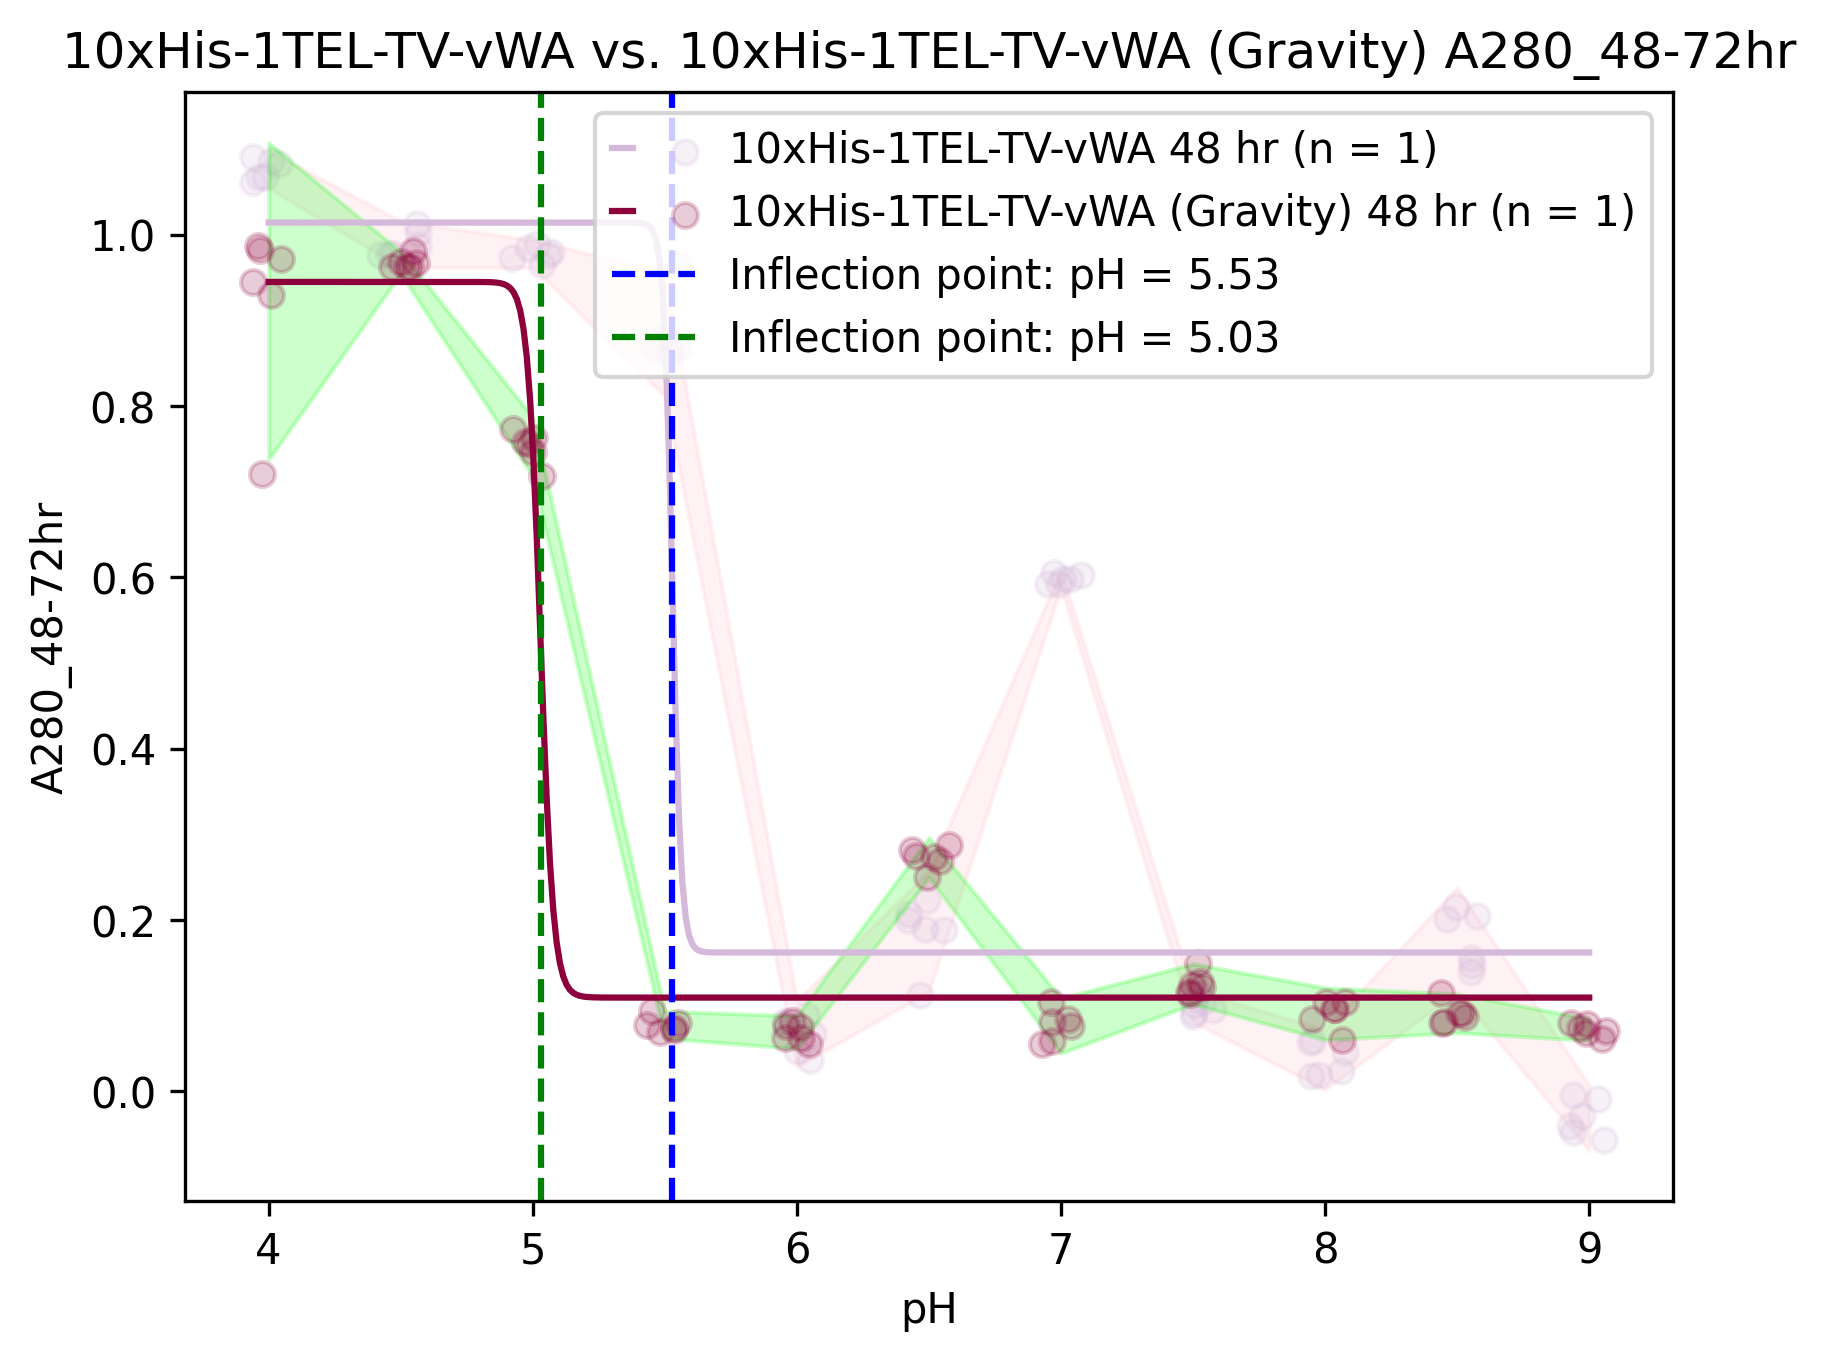
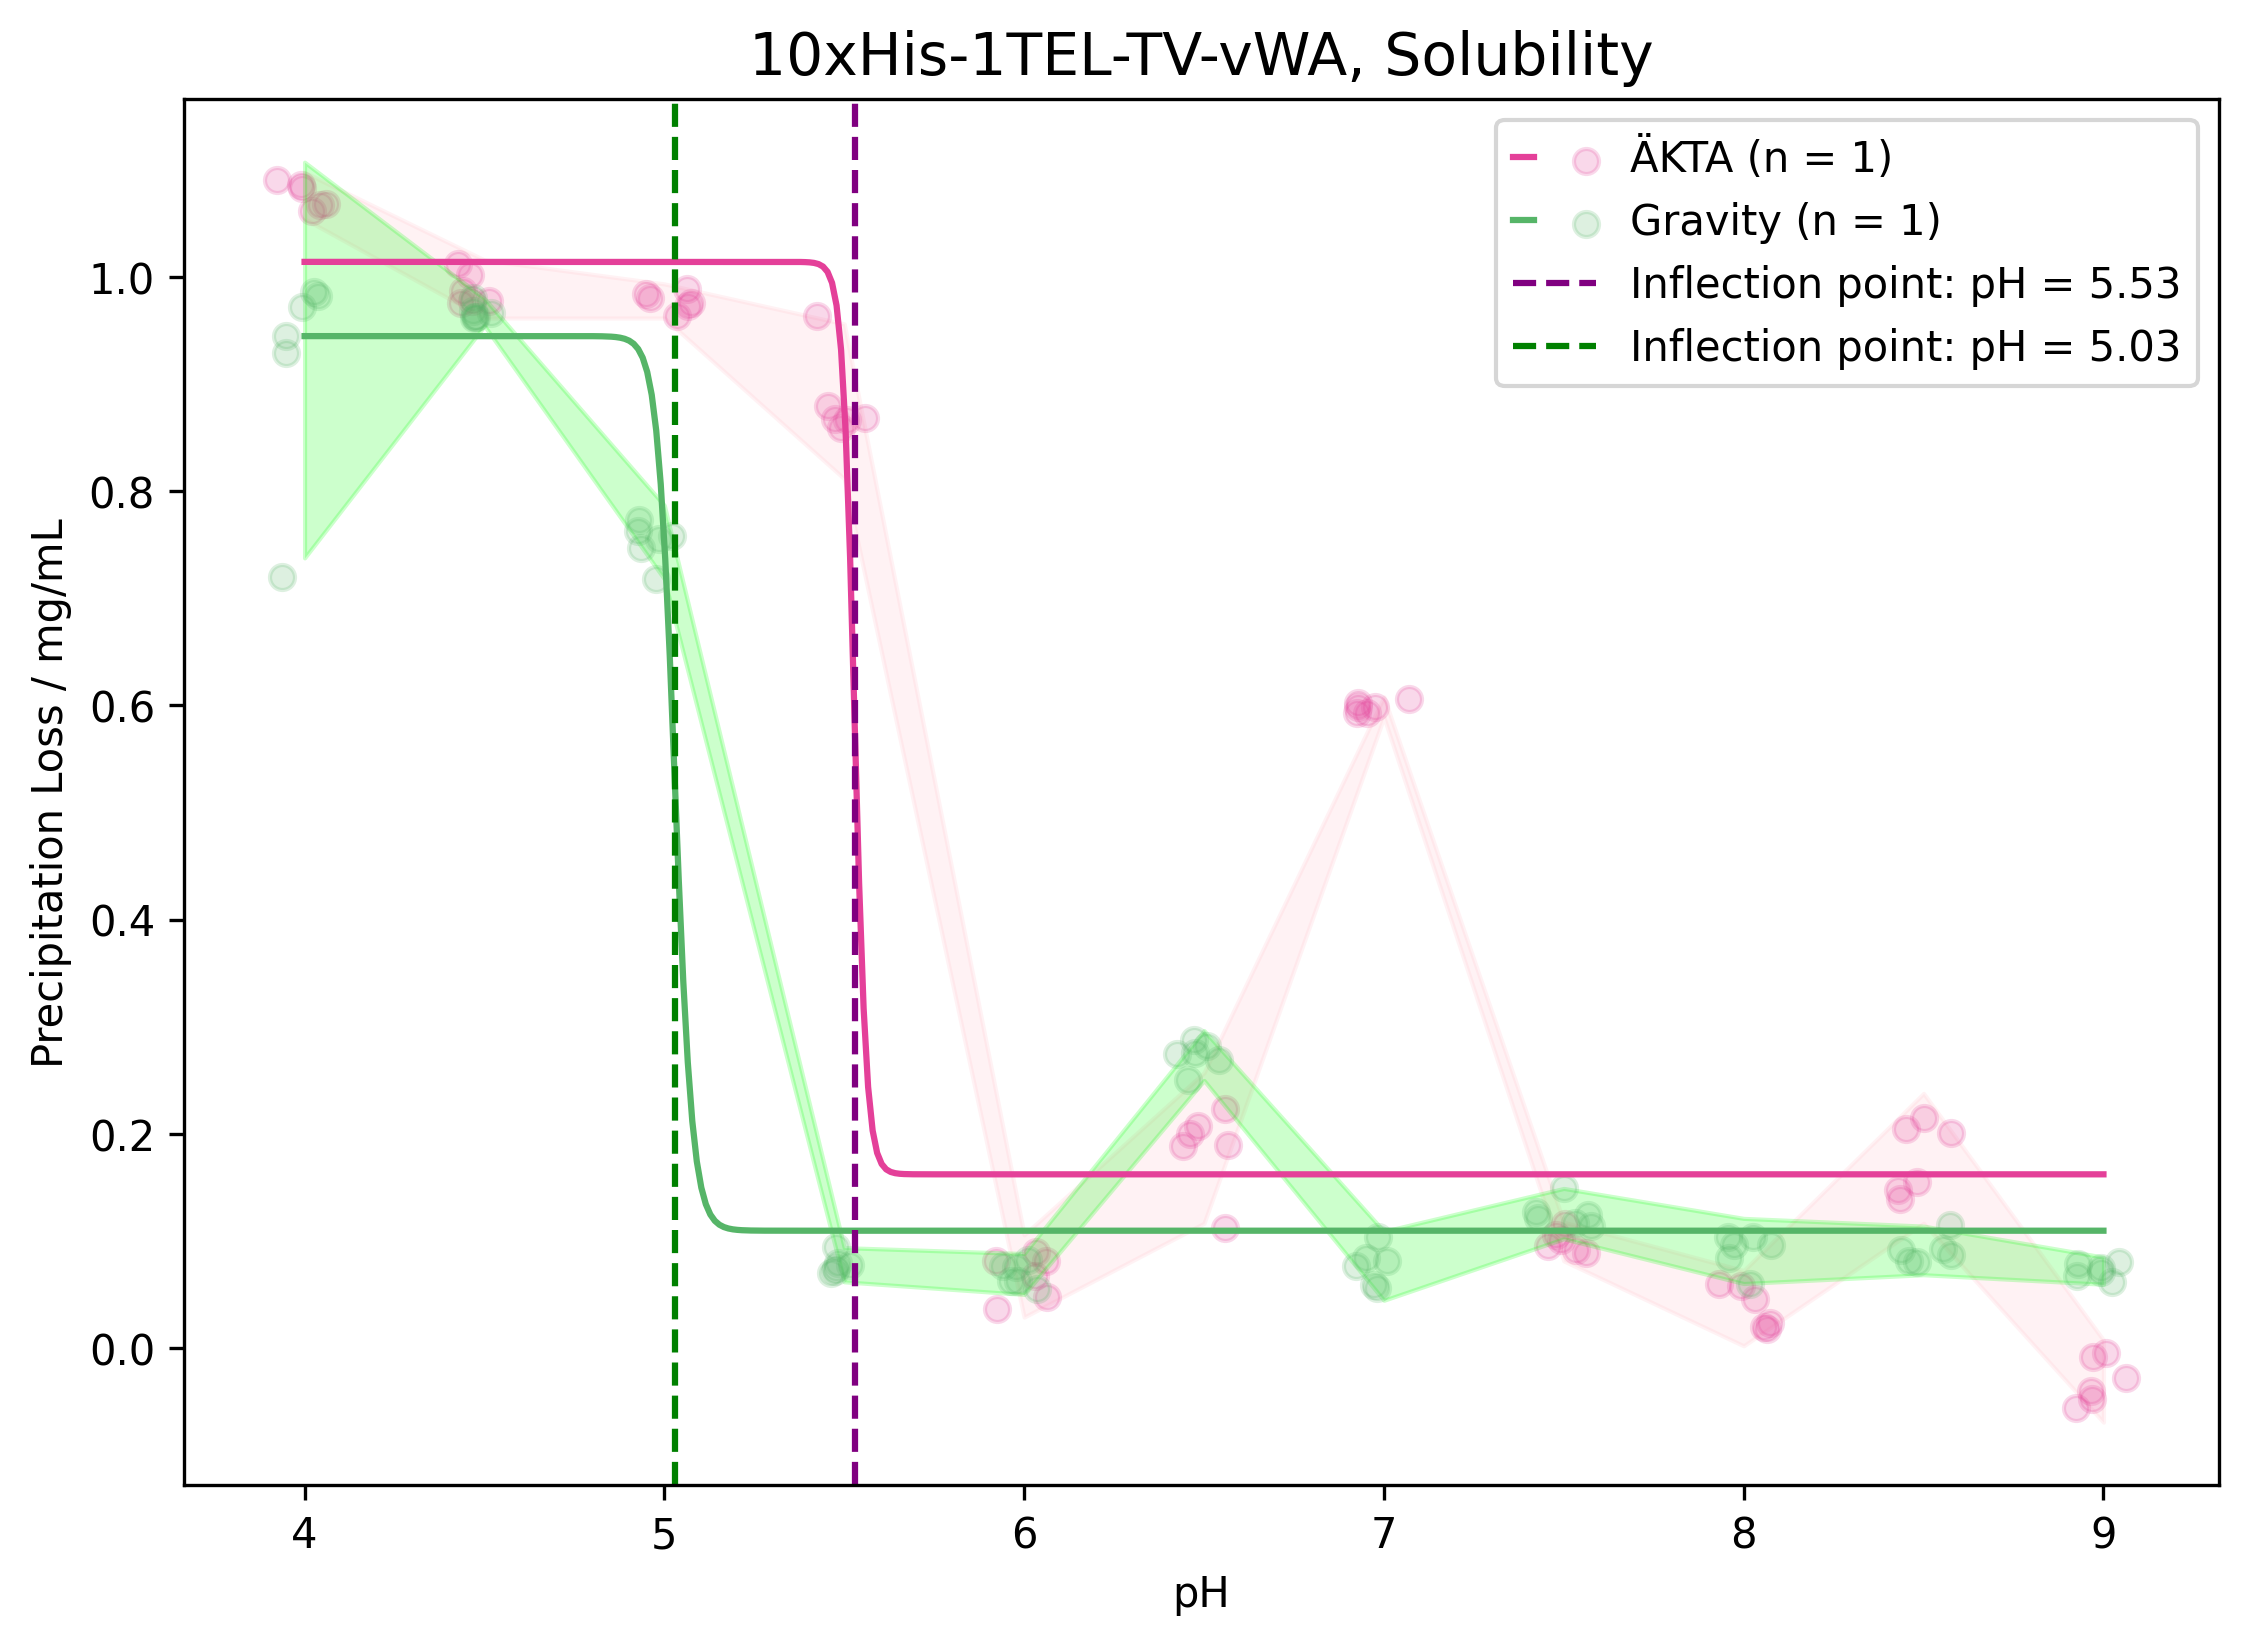
Made major adjustments to how the legends, axis labels, and titles are formatted. Also adjusted the color for the 2Trig 48-72 HR data.

diff --git a/process.py b/process.py
@@ -42,6 +42,73 @@ with open('data.csv',newline="") as csvfile:
             else:
                 protein_dict[protein_construct][row['Date']+"_"+row['Stock Concentration mg/mL']+'_mg/mL_pH_'+row['pH']]['A280_48-72hr'].append(float(row['A280_48-72hr']))
 
+def format_protein_title(construct_name: str) -> str:
+    name = construct_name.strip()
+
+    # Remove prefixes that should not appear in the title
+    name = name.replace("2Trig-", "")
+    name = name.replace(" (Gravity)", "")
+
+    parts = name.split("-")
+
+    # 1) tag
+    tag = "10xHis-" if parts[0] == "10xHis" else ""
+
+    # 2) scaffold
+    # You said this will always be 1TEL
+    scaffold = "1TEL"
+
+    # 3) linker
+    # Expected examples: GG, PA, SR, TV
+    linker = ""
+    if "GG" in parts:
+        linker = "GG"
+    elif "PA" in parts:
+        linker = "PA"
+    elif "SR" in parts:
+        linker = "[sr]"
+    elif "TV" in parts:
+        linker = "TV"
+
+    # 4) target protein
+    if "TNK1.UBA" in name:
+        target_protein = "TNK1.UBA"
+    elif "DARPin" in name:
+        target_protein = "DARPin"
+    elif "vWA" in name:
+        target_protein = "vWA"
+    else:
+        target_protein = "Unknown"
+
+    return f"{tag}{scaffold}-{linker}-{target_protein}"
+
+def format_legend_label(construct, test_name, protein_constructs, tests, n):
+
+    is_2trig = "2Trig" in construct
+    is_gravity = "Gravity" in construct
+    is_vwa = any(("vWA" in c) and ("2Trig" not in c) for c in protein_constructs)
+
+    has_1hr = "A280_1hr" in tests
+    has_48hr = "A280_48-72hr" in tests
+
+    # Case 1: 1Trig vs 2Trig
+    if len(protein_constructs) == 2 and len(tests) == 1:
+        if is_vwa and any("Gravity" in c for c in protein_constructs):
+            label = "Gravity" if is_gravity else "ÄKTA"
+        else:
+            label = "2Trig" if is_2trig else "1Trig"
+
+    # Case 2: 1 hr vs 48 hr
+    elif len(protein_constructs) == 1 and has_1hr and has_48hr:
+        trig_label = "2Trig" if is_2trig else "1Trig"
+        time_label = "1 Hour" if test_name == "A280_1hr" else "48 Hour"
+        label = f"{trig_label} {time_label}"
+
+    else:
+        label = construct
+
+    return f"{label} (n = {n})"
+
 def statisticize(proteins_and_tests:list,plot_singly=False,plot=False,tailored=False,pool=False):
     """
     Normally, you should pass only one test and one protein construct into 'proteins_and_tests', in the form of a list of tuples, where the
@@ -187,19 +254,31 @@ def statisticize(proteins_and_tests:list,plot_singly=False,plot=False,tailored=F
         return lower_asymptote + (upper_asymptote - lower_asymptote) / (1 + (pH / inflection_point)**Hill_slope)
 
     if plot==True:
+        # Make legend smaller:
+            # GG A400 1 vs 2
+            # SR 1 HR 1 vs 2
+            # GG 1 HR 1 vs 2
+            # vWA 1 HR non-gravity vs gravity
+        # Legend in bottom:
+            # Why 2Trig-PA in bottom by not 1Trig 1HR vs 48 HR?
+
+        plt.figure(figsize=(8.75,6))
         handles_and_labels = {}
 
         def change_colors():
             keys_1trig = []
             keys_2trig = []
             keys_48_hour = []
+            keys_2Trig_48_hour = []
             keys_Gravity = []
             for construct_key in constructs_by_pH_by_date:
                 construct, test_name = construct_key
                 if "Gravity" in construct:
                     keys_Gravity.append(construct_key)
-                elif test_name == "A280_48-72hr":
+                elif test_name == "A280_48-72hr" and not '2Trig' in construct:
                     keys_48_hour.append(construct_key)
+                elif test_name == 'A280_48-72hr' and '2Trig' in construct:
+                    keys_2Trig_48_hour.append(construct_key)
                 elif "2Trig" in construct:
                     keys_2trig.append(construct_key)
                 else:
@@ -211,6 +290,7 @@ def statisticize(proteins_and_tests:list,plot_singly=False,plot=False,tailored=F
             blue_shades = shade_list(plt.cm.Blues, len(keys_1trig))
             orange_shades = shade_list(plt.cm.Oranges, len(keys_2trig))
             crimson_shades = shade_list(plt.cm.PuRd, len(keys_48_hour))
+            purple_shades = shade_list(plt.cm.Purples, len(keys_2Trig_48_hour))
             lime_shades = shade_list(plt.cm.YlGn, len(keys_Gravity))
             color_map = {}
             for construct, color in zip(sorted(keys_1trig), blue_shades):
@@ -218,6 +298,8 @@ def statisticize(proteins_and_tests:list,plot_singly=False,plot=False,tailored=F
             for construct, color in zip(sorted(keys_2trig), orange_shades):
                 color_map[construct] = color
             for construct, color in zip(sorted(keys_48_hour), crimson_shades):
+                color_map[construct] = color
+            for construct, color in zip(sorted(keys_2Trig_48_hour), purple_shades):
                 color_map[construct] = color
             for construct, color in zip(sorted(keys_Gravity), lime_shades):
                 color_map[construct] = color
@@ -282,8 +364,10 @@ def statisticize(proteins_and_tests:list,plot_singly=False,plot=False,tailored=F
                 ###------plot CI band around the mean values at each pH---------------------###
                 if "Gravity" in construct:
                     plt.fill_between(pH_values, ci_lower_bounds, ci_upper_bounds, color='lime', alpha=0.20)
-                elif test_name == "A280_48-72hr":
+                elif test_name == "A280_48-72hr" and "2Trig" not in construct:
                     plt.fill_between(pH_values, ci_lower_bounds, ci_upper_bounds, color='pink', alpha=0.20)
+                elif test_name == "A280_48-72hr" and "2Trig" in construct:
+                    plt.fill_between(pH_values, ci_lower_bounds, ci_upper_bounds, color='mediumpurple', alpha=0.20)
                 elif "2Trig" in construct:
                     plt.fill_between(pH_values, ci_lower_bounds, ci_upper_bounds, color='tomato', alpha=0.20)
                 else:
@@ -292,7 +376,9 @@ def statisticize(proteins_and_tests:list,plot_singly=False,plot=False,tailored=F
                 # plot raw scatter points
                 jitter_strength = 0.08
                 jittered_pHs = np.array(construct_pHs) + np.random.uniform(-jitter_strength, jitter_strength, len(construct_pHs))
-                if "2Trig" in construct:
+                if "2Trig" in construct and test_name == 'A280_48-72hr':
+                    scatter_handle = plt.scatter(jittered_pHs,construct_data,marker="^", color=color_map[construct_key], alpha=0.3)
+                elif "2Trig" in construct:
                     scatter_handle = plt.scatter(jittered_pHs,construct_data,marker="^", color=color_map[construct_key], alpha=0.2)
                 else:
                     scatter_handle = plt.scatter(jittered_pHs,construct_data, color=color_map[construct_key], alpha=0.2)
@@ -309,13 +395,8 @@ def statisticize(proteins_and_tests:list,plot_singly=False,plot=False,tailored=F
                         inflection_2 = plt.axvline(inflection_points_2trig[-1],color="red",linestyle="--")
                         handles_and_labels[inflection_2] = f"Inflection point: pH = {inflection_points_2trig[-1].round(2)}"
                 
-                if test_name == "A280_1hr":
-                    time_label = "1 hr"
-                elif test_name == "A280_48-72hr":
-                    time_label = "48 hr"
-                else:
-                    time_label = ""
-                handles_and_labels[(line_handle, scatter_handle)] = f"{construct} {time_label} (n = {biological_n_by_construct[construct_key]})"
+                legend_label = format_legend_label(construct,test_name,protein_constructs,tests,biological_n_by_construct[construct_key])
+                handles_and_labels[(line_handle, scatter_handle)] = legend_label
 
             except Exception as e:
                 print(f'The curve fit for {construct} failed due to: {e}. Plotting points instead of fitted curve...')
@@ -329,25 +410,24 @@ def statisticize(proteins_and_tests:list,plot_singly=False,plot=False,tailored=F
                             construct_data.append(measurement)
                 if "Gravity" in construct:
                     plt.fill_between(pH_values, ci_lower_bounds, ci_upper_bounds, color='lime', alpha=0.20)
-                elif test_name == "A280_48-72hr":
+                elif test_name == "A280_48-72hr" and "2Trig" not in construct:
                     plt.fill_between(pH_values, ci_lower_bounds, ci_upper_bounds, color='pink', alpha=0.20)
+                elif test_name == "A280_48-72hr" and "2Trig" in construct:
+                    plt.fill_between(pH_values, ci_lower_bounds, ci_upper_bounds, color='mediumpurple', alpha=0.20)
                 elif "2Trig" in construct:
                     plt.fill_between(pH_values, ci_lower_bounds, ci_upper_bounds, color='tomato', alpha=0.20)
                 else:
                     plt.fill_between(pH_values, ci_lower_bounds, ci_upper_bounds, color='cyan', alpha=0.20)
                 jitter_strength = 0.08
                 jittered_pHs = np.array(construct_pHs) + np.random.uniform(-jitter_strength, jitter_strength, len(construct_pHs))
-                if "2Trig" in construct:
+                if "2Trig" in construct and test_name == 'A280_48-72hr':
+                    scatter_handle = plt.scatter(jittered_pHs,construct_data,marker="^", color=color_map[construct_key], alpha=0.3)
+                elif "2Trig" in construct:
                     scatter_handle = plt.scatter(jittered_pHs,construct_data,marker="^", color=color_map[construct_key], alpha=0.2)
                 else:
                     scatter_handle = plt.scatter(jittered_pHs,construct_data, color=color_map[construct_key], alpha=0.2)
-                if test_name == "A280_1hr":
-                    time_label = "1 hr"
-                elif test_name == "A280_48-72hr":
-                    time_label = "48 hr"
-                else:
-                    time_label = ""
-                handles_and_labels[scatter_handle] = f"{construct} {time_label} (n = {biological_n_by_construct[construct_key]})"
+                legend_label = format_legend_label(construct,test_name,protein_constructs,tests,biological_n_by_construct[construct_key])
+                handles_and_labels[scatter_handle] = legend_label
 
             # mean points with Bonferroni error bars
             #plt.errorbar(x=pH_values,y=means, yerr=[np.array(means) - np.array(ci_lower_bounds), np.array(ci_upper_bounds) - np.array(means)], fmt='none', ecolor=color_map[construct], capsize=4, alpha=0.9)
@@ -400,29 +480,45 @@ def statisticize(proteins_and_tests:list,plot_singly=False,plot=False,tailored=F
                     inflection_2 = plt.axvline(inflection_points_2trig[0],color='red',linestyle="--")
                     handles_and_labels[inflection_2] = f"Inflection point: pH = {np.float64(inflection_points_2trig[0]):.2f}"        
 
-            if len(proteins_and_tests)==1:
-                plt.title(f'{protein_constructs[0]} {tests[0]}')
-                plt.ylabel(tests[0])
-                plt.xlabel('pH')
+            if "A400" == tests[0]:
+                y_axis = 'Absorbance'
+                assay = 'Turbidity'
             else:
-                #If two different protein constructs were passed in, we want to show that they are the same. This is usually testing single vs. double trigger variants.
-                #For this test, we aggregate the biological replicates of a given protein construct whether or not they are statistically significantly different.
-                if len(protein_constructs)==2 and len(tests)==1:
-                    plt.title(f'{protein_constructs[0]} vs. {protein_constructs[1]} {tests[0]}')
-                    plt.ylabel(tests[0])
-                    plt.xlabel('pH')
-                #If the same protein construct was passed in twice with two different tests, we want to show that they are the same.
-                elif len(protein_constructs)==1 and len(tests)==2:
-                    plt.title(f'{protein_constructs[0]} {tests[0]} vs. {tests[1]}')
-                    plt.ylabel(tests[0])
-                    plt.xlabel('pH')
+                y_axis = "Precipitation Loss / mg/mL"
+                assay = 'Solubility'
+            if len(protein_constructs) == 1:
+                protein_title = format_protein_title(protein_constructs[0])
+                plt.title(f"{protein_title}, {assay}", fontsize = 14)
+                plt.ylabel(y_axis)
+                plt.xlabel("pH")
+            else:
+                if len(protein_constructs) == 2 and len(tests) == 1:
+                    # Use the first construct as the base protein title
+                    protein_title = format_protein_title(protein_constructs[0])
+                    plt.title(f"{protein_title}, {assay}", fontsize = 14)
+                    plt.ylabel(y_axis)
+                    plt.xlabel("pH")
+                elif len(protein_constructs) == 1 and len(tests) == 2:
+                    protein_title = format_protein_title(protein_constructs[0])
+                    plt.title(f"{protein_title}, {assay}", fontsize = 14)
+                    plt.ylabel(y_axis)
+                    plt.xlabel("pH")
 
             handles = [handle for handle in handles_and_labels]
             labels = [label for handle in handles_and_labels for label in [handles_and_labels[handle]]]
-            if "PA-TNK1.UBA" in protein_construct and "A280_1hr" in tests:
-                plt.legend(handles,labels,handler_map={tuple: HandlerTuple(ndivide=2, pad=1)}, loc="lower right")
+            is_pa = any("PA-TNK1.UBA" in construct for construct in protein_constructs)
+            is_vwa = any("vWA" in construct for construct in protein_constructs)
+            is_1hr_only = ("A280_1hr" in tests and "A280_48-72hr" not in tests)
+            is_1hr_vs_48hr = ("A280_1hr" in tests and "A280_48-72hr" in tests)
+            is_pa_1trig_vs_2trig_1hr = is_pa and len(protein_constructs) == 2 and is_1hr_only
+            is_vwa_1trig_vs_2trig_1hr = is_vwa and len(protein_constructs) == 2 and is_1hr_only
+            is_pa_1trig_1hr_vs_48hr = is_pa and len(protein_constructs) == 1 and "2Trig" not in protein_constructs[0] and is_1hr_vs_48hr
+            is_vwa_1hr_non_gravity_vs_gravity = (is_vwa and len(protein_constructs) == 2 and is_1hr_only and any("Gravity" in construct for construct in protein_constructs))
+            
+            if (is_pa_1trig_vs_2trig_1hr or is_vwa_1trig_vs_2trig_1hr or is_pa_1trig_1hr_vs_48hr or is_vwa_1hr_non_gravity_vs_gravity):
+                plt.legend(handles, labels,handler_map={tuple: HandlerTuple(ndivide=2, pad=1)},loc="lower right")
             else:
-                plt.legend(handles,labels,handler_map={tuple: HandlerTuple(ndivide=2, pad=1)}, loc="upper right")
+                plt.legend(handles, labels,handler_map={tuple: HandlerTuple(ndivide=2, pad=1)},loc="upper right")
             plt.savefig(f'{protein_construct.replace("/","_")}_{test}.png',dpi=300,bbox_inches="tight")
             plt.show()
             plt.close()
@@ -454,7 +550,10 @@ for protein_construct in protein_dict:
         #statisticize([(f'2Trig-{protein_construct}','A280_48-72hr')],plot=True,plot_singly=True)
         #Single vs. Double-trigger A280_48-72hr
         #statisticize([(f'{protein_construct}','A280_48-72hr'),(f'2Trig-{protein_construct}','A280_48-72hr')],plot=True)
-        #A280 1hr vs 48-72 hr
+        #Single-trigger A280 1hr vs 48-72 hr
+        statisticize([(f'{protein_construct}','A280_1hr'),(f'{protein_construct}','A280_48-72hr')],plot=True)
+    elif '2Trig' in protein_construct:
+        #Double-trigger A280 1hr vs 48-72 hr
         statisticize([(f'{protein_construct}','A280_1hr'),(f'{protein_construct}','A280_48-72hr')],plot=True)
 
 #Single trigger TV-vWA A400, A280 1 HR, A280 48-72 HR
